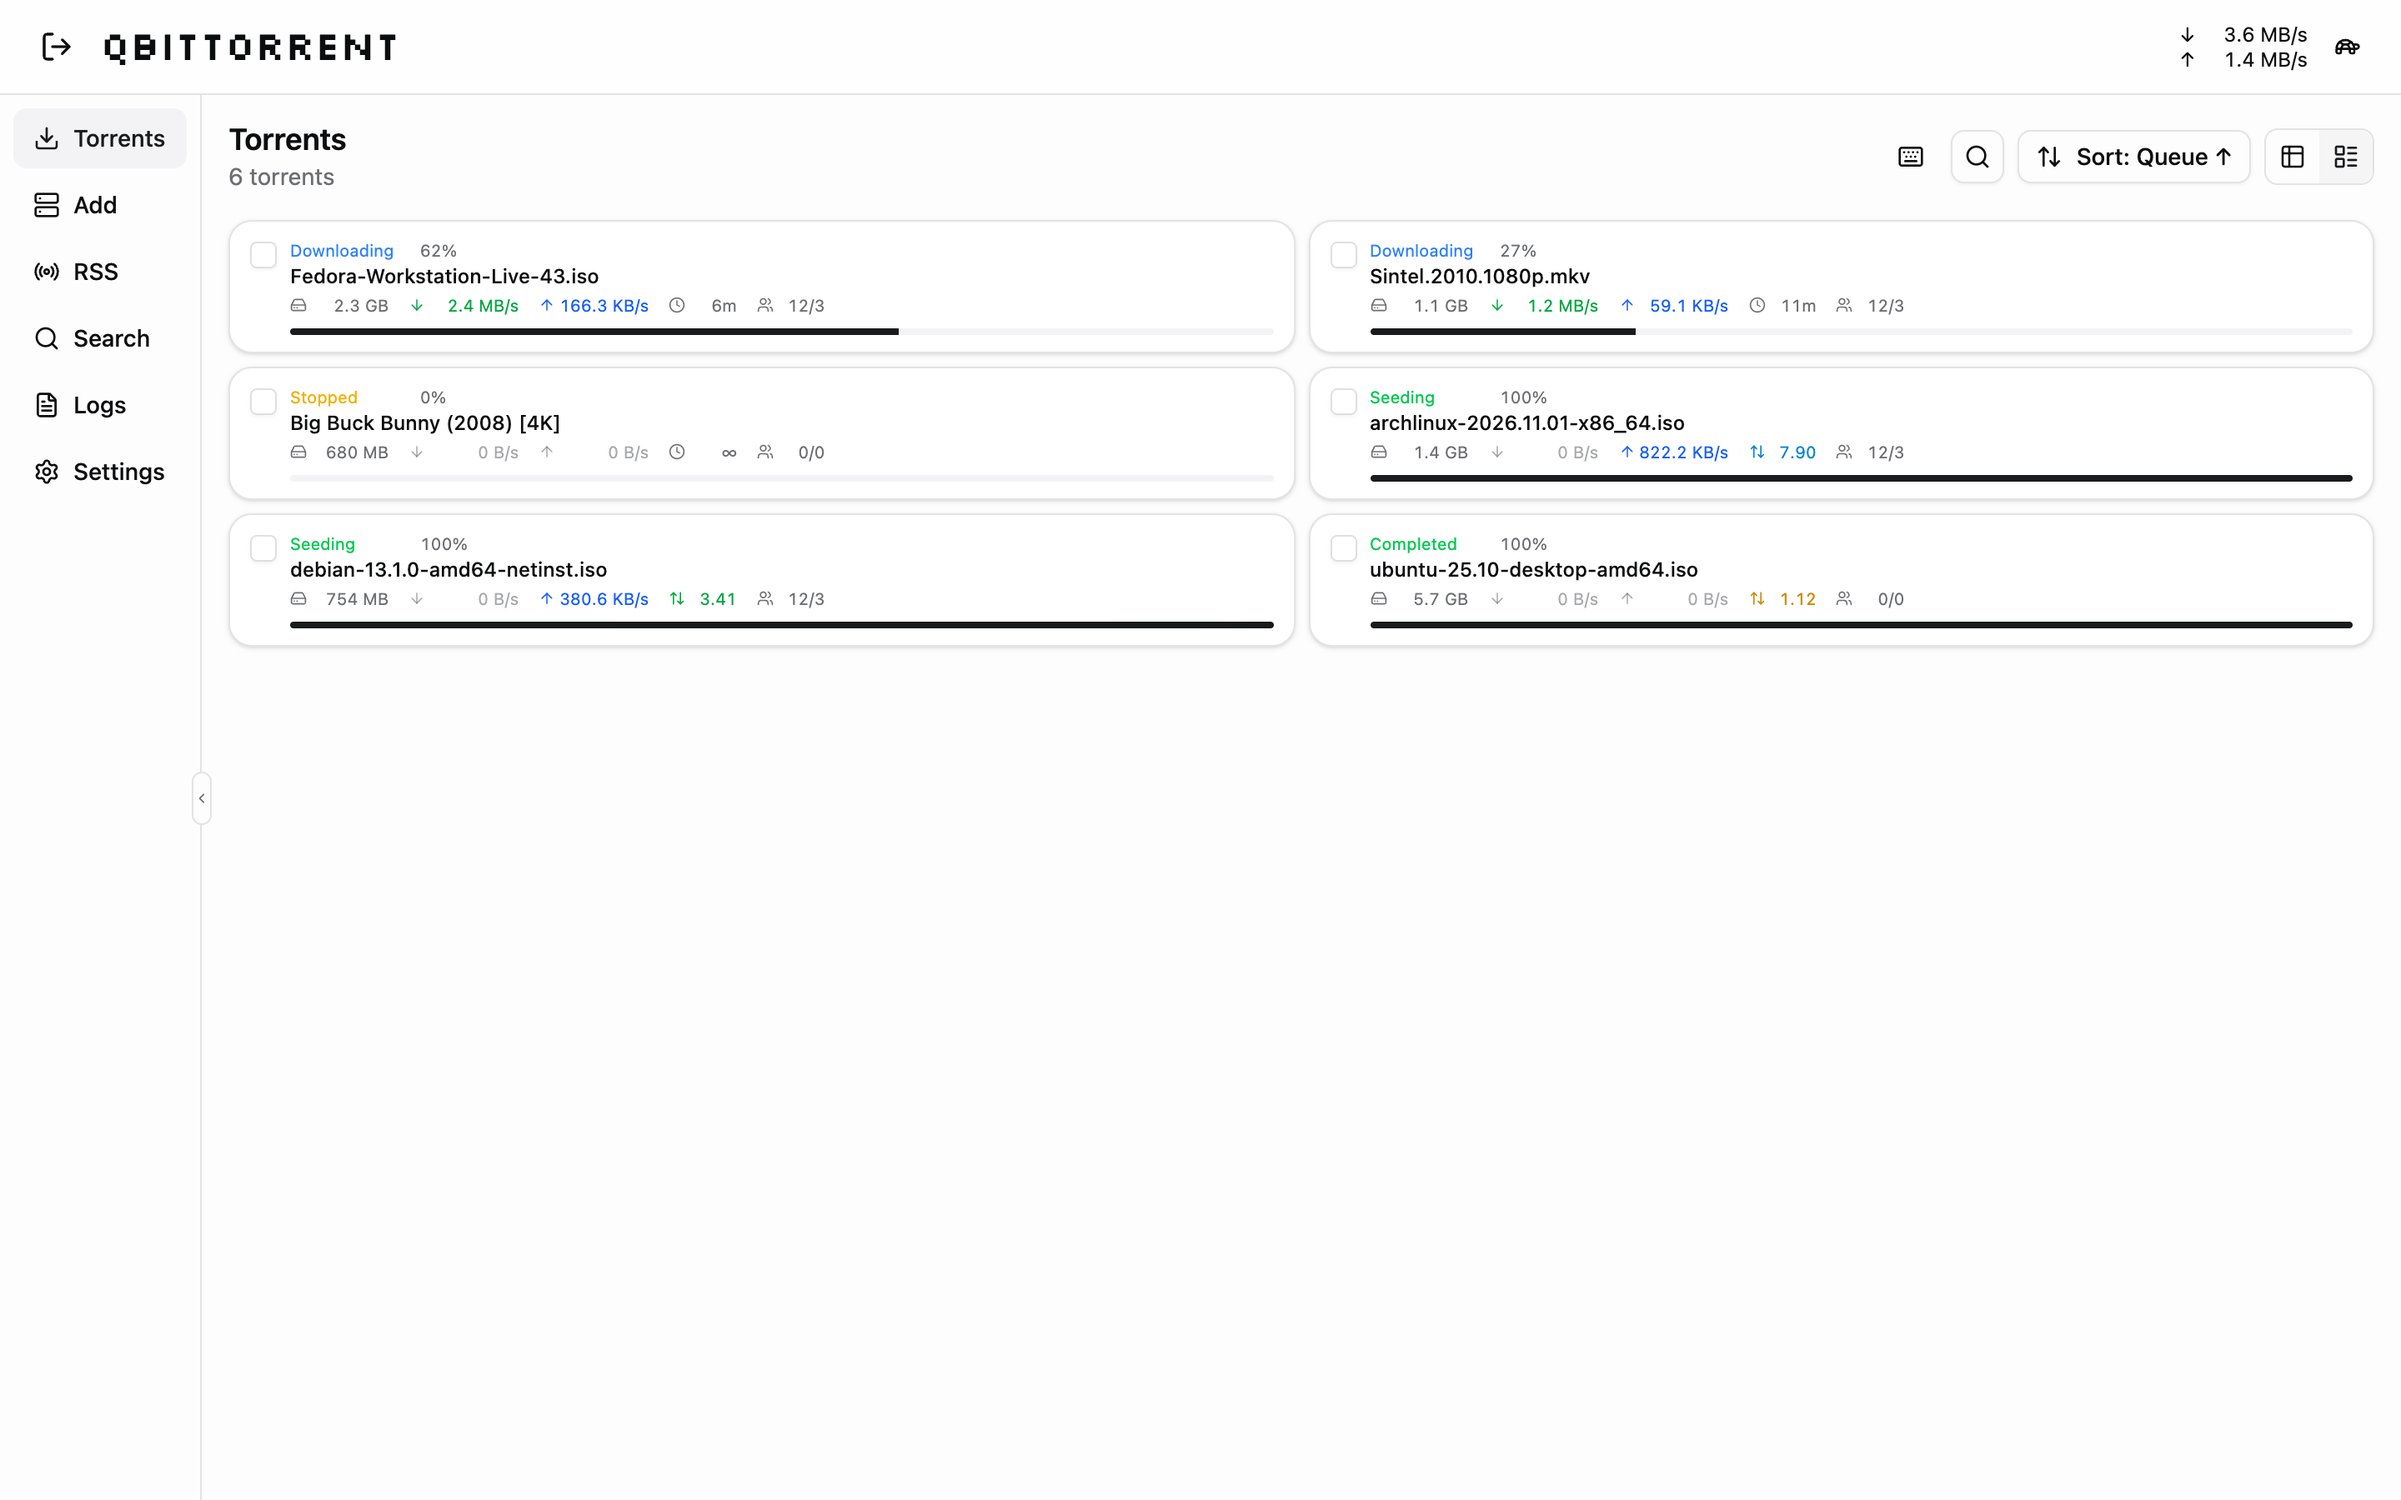
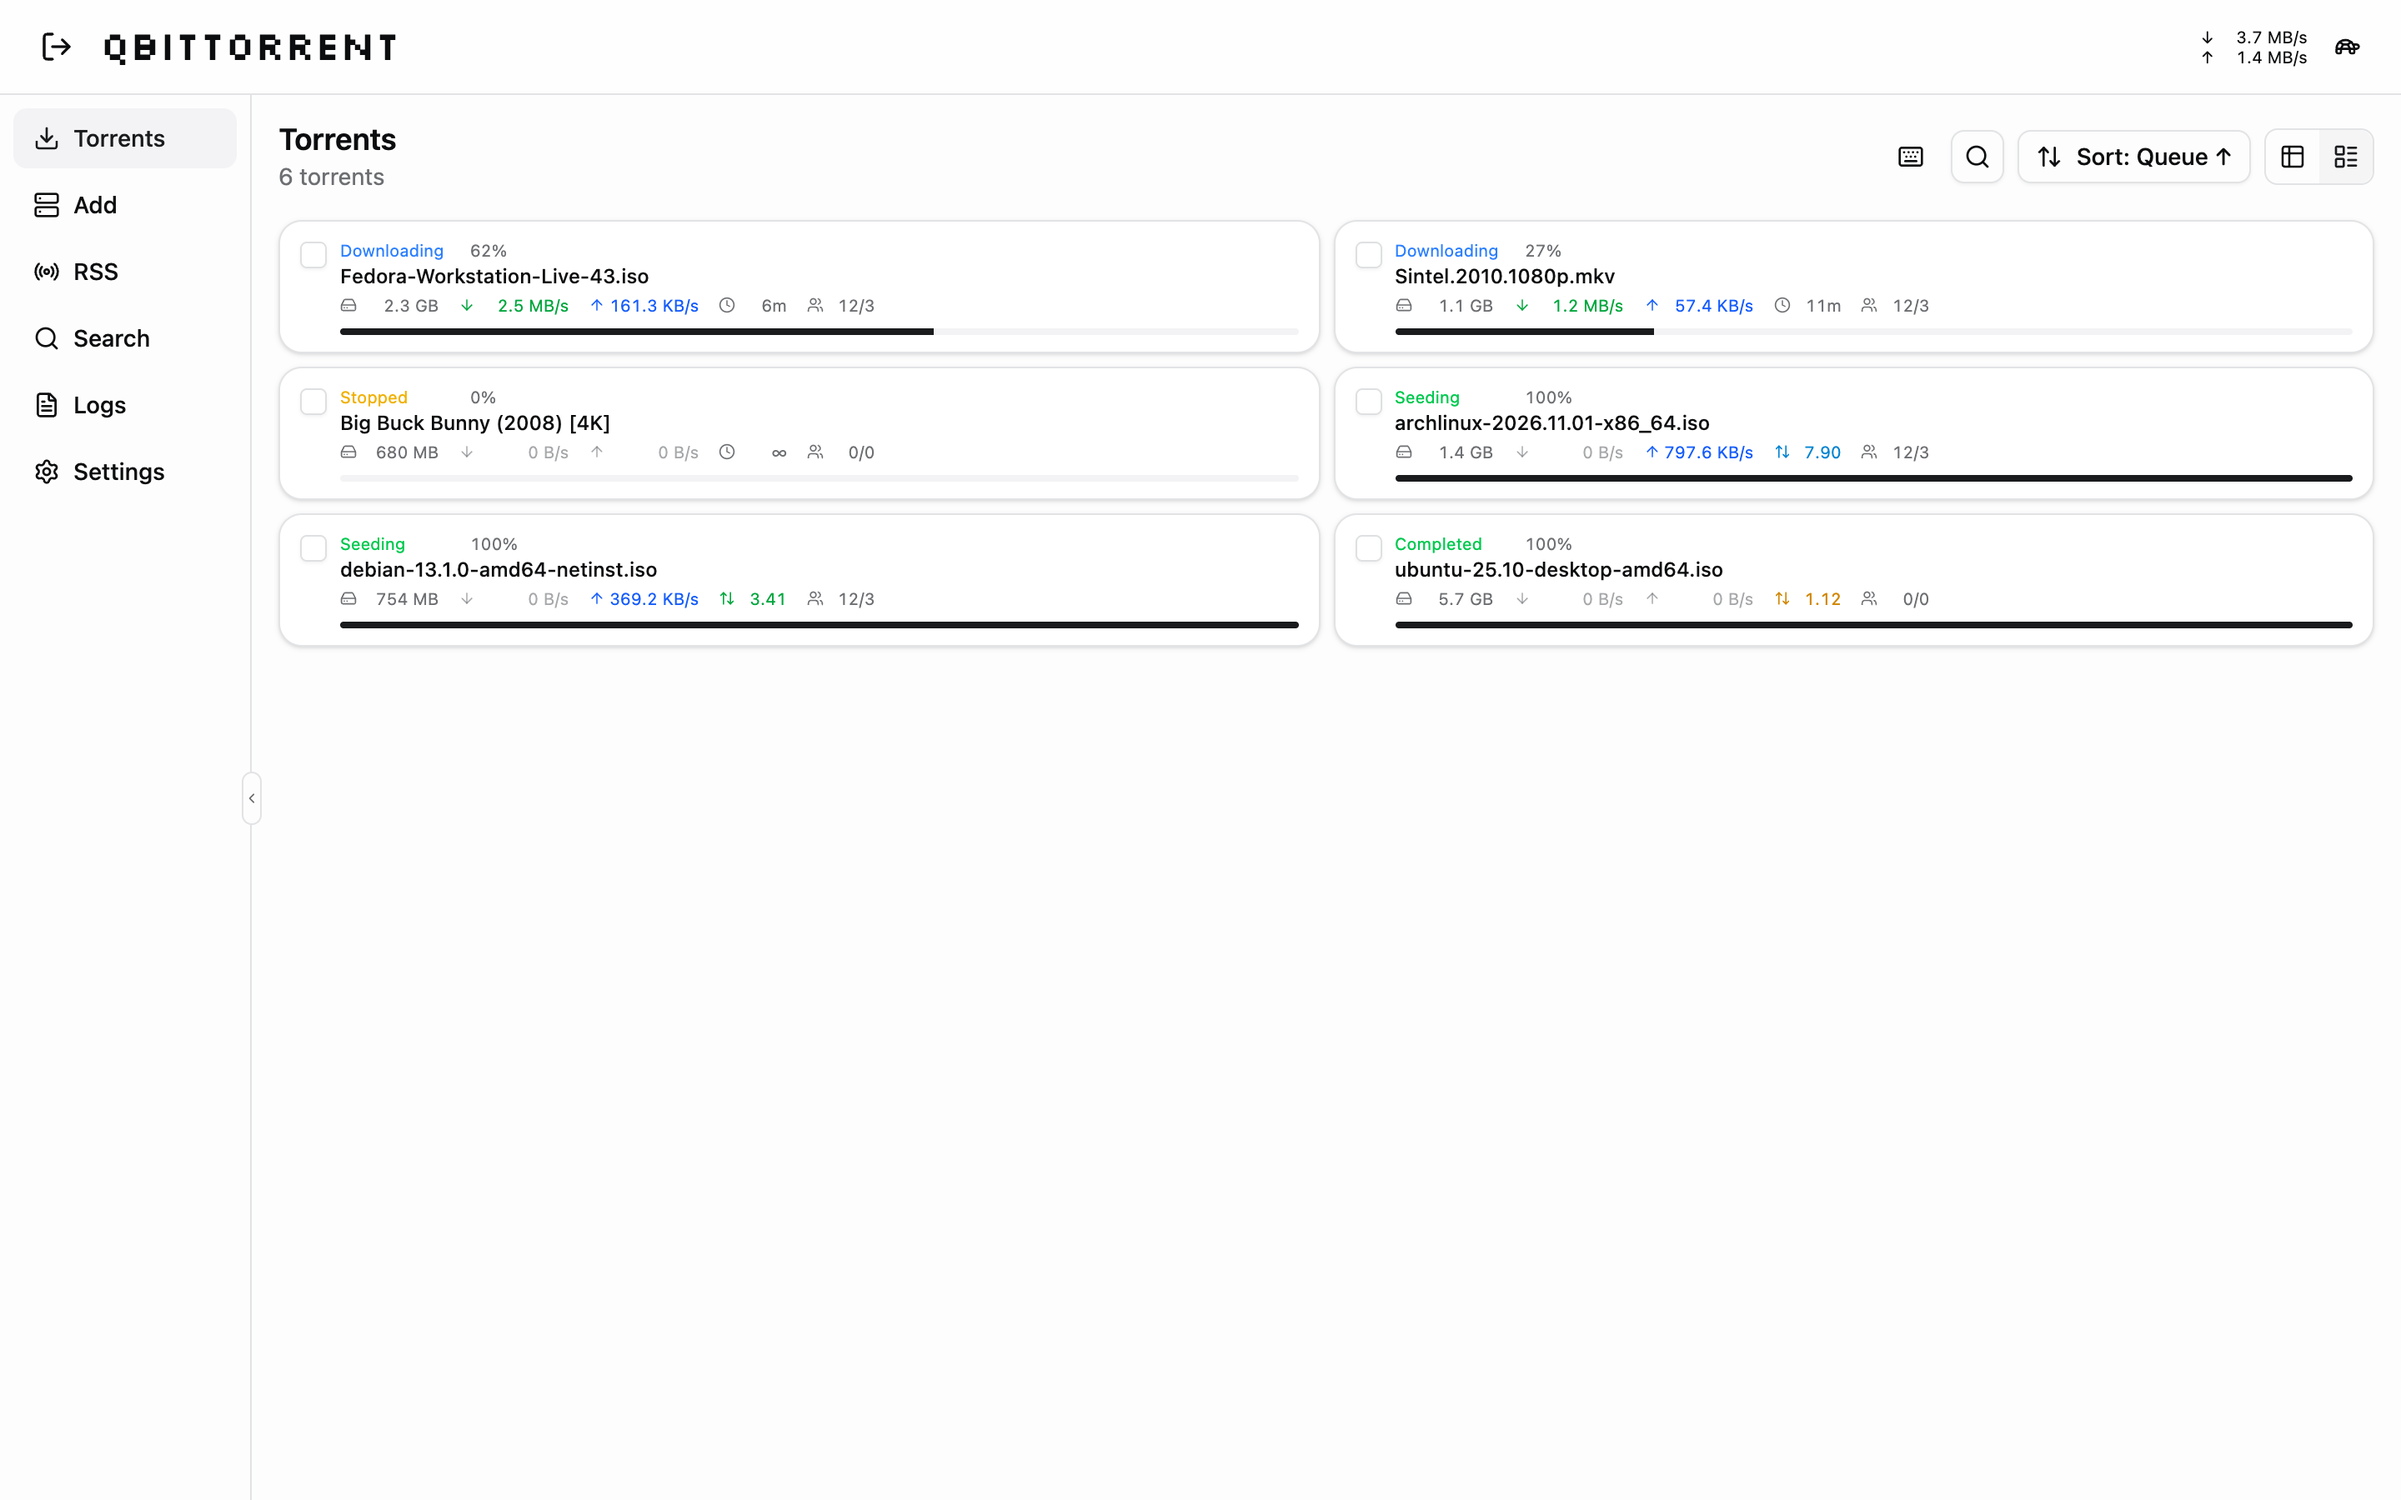
qbminimal 1.4.12
- Sidebar opens 150px wide, up to the title's first "r".
- Desktop uses the phone font sizes in the table, detail tabs and header speeds.
- README screenshots retaken, including the iPhone one.

diff --git a/src/components/Layout.tsx b/src/components/Layout.tsx
@@ -65,7 +65,7 @@ const storedWidth = () => {
   return width >= SIDEBAR_MIN && width <= SIDEBAR_MAX ? width : null
 }
 
-// Wide screens only. The sidebar is 120px, or as wide as its labels if they need more, until it's dragged by its edge, which also
+// Wide screens only. The sidebar reaches the title's first "r" (150px), or is as wide as its labels if they need more, until it's dragged by its edge, which also
 // holds the button that hides and shows it. --sidebar-width lets panels fixed to the window line up
 // with the main column.
 function useSidebar() {
@@ -168,7 +168,7 @@ export function Layout({ page, onNavigate, children }: LayoutProps) {
         <div className="flex">
           <div ref={sidebarBox} className="sticky top-14 hidden h-[calc(100vh-3.5rem)] flex-shrink-0 self-start md:flex">
             {sidebarShown && (
-              <aside style={sidebarWidth ? { width: sidebarWidth } : undefined} className="w-max min-w-30 overflow-x-hidden overflow-y-auto p-2 pb-4">
+              <aside style={sidebarWidth ? { width: sidebarWidth } : undefined} className="w-max min-w-[150px] overflow-x-hidden overflow-y-auto p-2 pb-4">
                 <nav aria-label={t('Pages')} className="flex flex-col gap-1">{navButtons}</nav>
               </aside>
             )}

diff --git a/src/components/torrents/TorrentDetails.tsx b/src/components/torrents/TorrentDetails.tsx
@@ -52,7 +52,7 @@ function DetailsTabs({ torrent, listClassName }: { torrent: Torrent; listClassNa
   return (
     <Tabs value={tab} onValueChange={choose} className="min-h-0 flex-1">
       <TabsList className={cn('grid grid-cols-5', listClassName)}>
-        {TABS.map(tab => <TabsTrigger key={tab.id} value={tab.id} className="px-0.5 text-xs sm:px-3 sm:text-sm">{tab.label}</TabsTrigger>)}
+        {TABS.map(tab => <TabsTrigger key={tab.id} value={tab.id} className="px-0.5 text-xs sm:px-3">{tab.label}</TabsTrigger>)}
       </TabsList>
       <TabsContent value="details" className="overflow-y-auto"><TorrentInfoTab torrent={torrent} /></TabsContent>
       <TabsContent value="content" className="flex min-h-0 flex-col overflow-hidden"><TorrentContentTab key={torrent.hash} hash={torrent.hash} /></TabsContent>

diff --git a/src/components/torrents/TorrentTable.tsx b/src/components/torrents/TorrentTable.tsx
@@ -191,7 +191,7 @@ export function TorrentTable({ torrents, layout, onLayoutChange, selected, selec
   return (
     // Its own scrollbar is hidden: the one at the bottom of the screen stands in for it.
     <div ref={scroller} className="overflow-x-auto overscroll-x-none rounded-xl border bg-card [scrollbar-width:none] [&::-webkit-scrollbar]:hidden">
-      <table className="table-fixed caption-bottom text-xs tabular-nums md:text-sm" style={{ width: `max(100%, ${total}px)` }}>
+      <table className="table-fixed caption-bottom text-xs tabular-nums" style={{ width: `max(100%, ${total}px)` }}>
         <colgroup>
           <col style={{ width: SELECT_WIDTH }} />
           {columns.map(def => <col key={def.id} style={{ width: widthOf(def.id) }} />)}

diff --git a/src/components/GlobalSpeeds.tsx b/src/components/GlobalSpeeds.tsx
@@ -38,7 +38,7 @@ export function GlobalSpeeds() {
         onClick={() => setOpen(true)}
         title={title}
         aria-label={`${t('Current speeds')}: ↓ ${formatBytes(speeds.down)}/s, ↑ ${formatBytes(speeds.up)}/s. ${title}`}
-        className="-mx-1 flex flex-col rounded-md px-1 py-0.5 text-[10px] leading-tight tabular-nums whitespace-nowrap outline-none hover:bg-accent focus-visible:ring-2 focus-visible:ring-ring sm:text-xs"
+        className="-mx-1 flex flex-col rounded-md px-1 py-0.5 text-[10px] leading-tight tabular-nums whitespace-nowrap outline-none hover:bg-accent focus-visible:ring-2 focus-visible:ring-ring"
       >
         {row('↓', speeds.down, state?.dl_rate_limit)}
         {row('↑', speeds.up, state?.up_rate_limit)}
